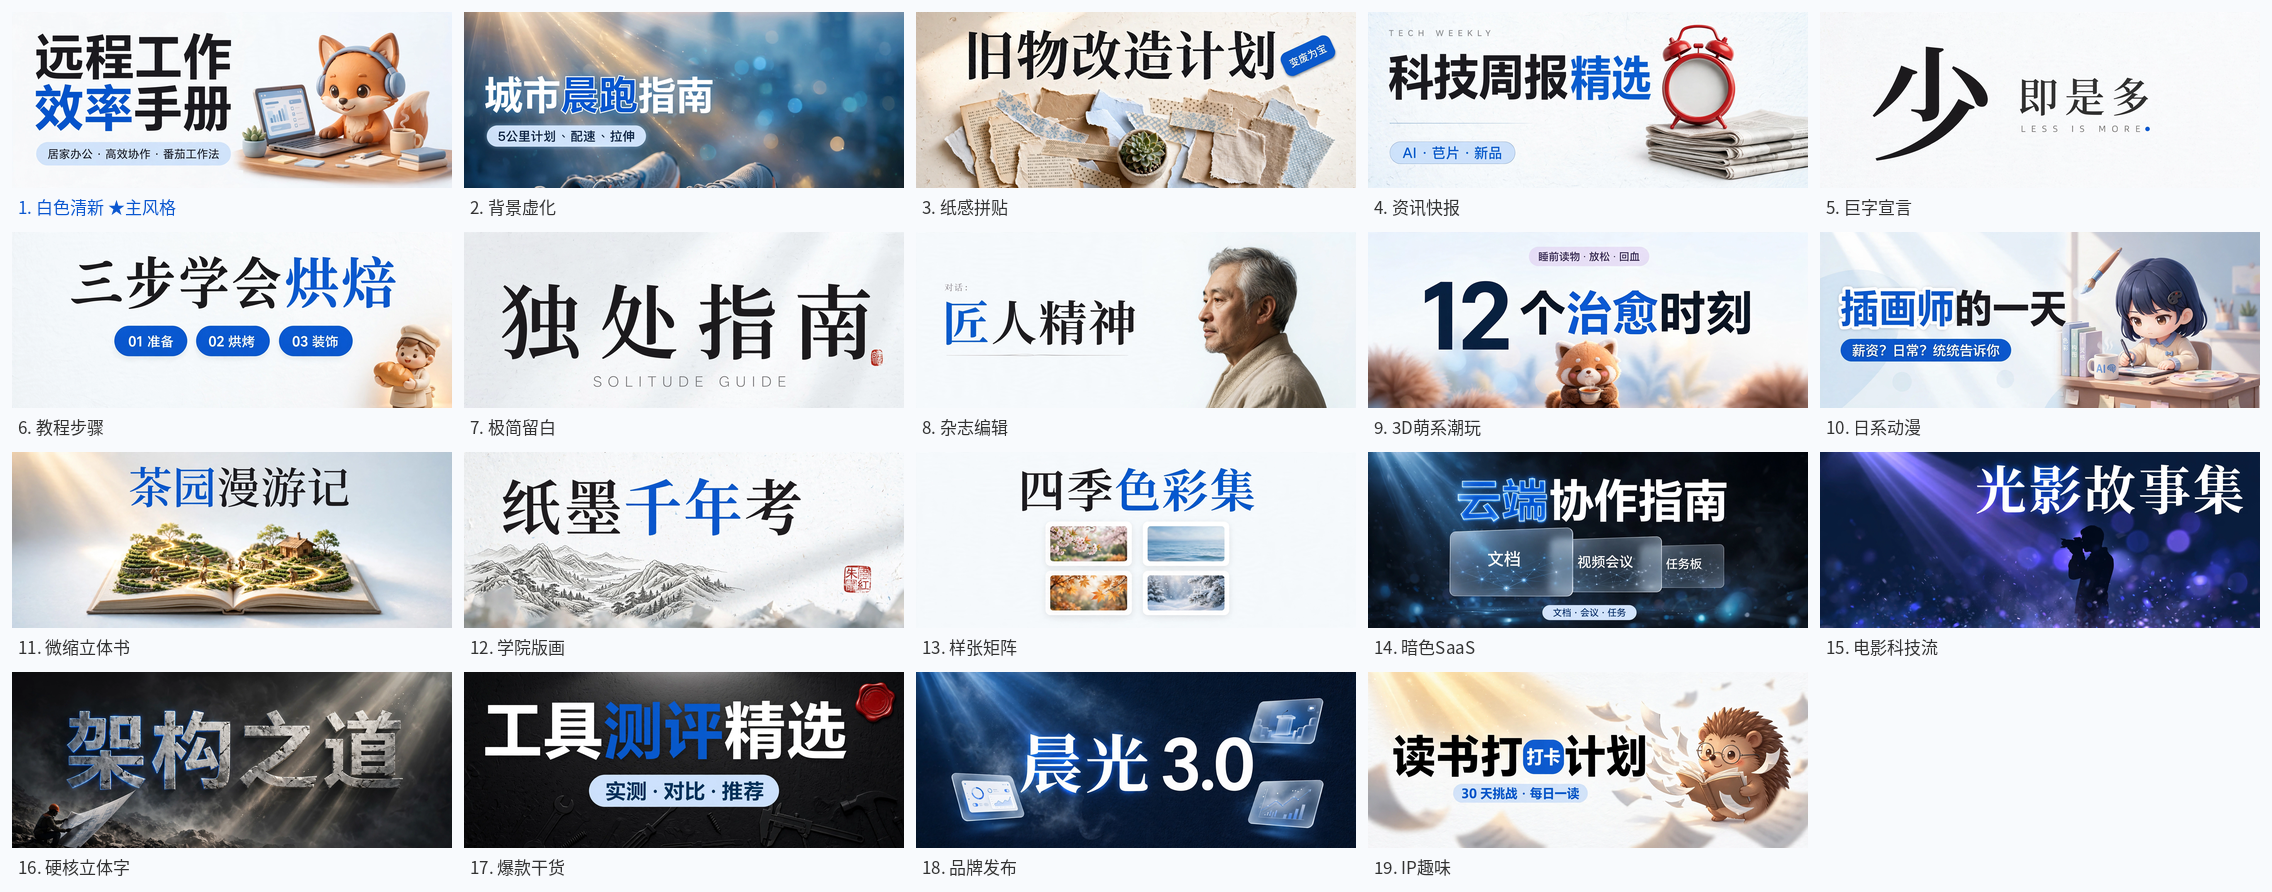
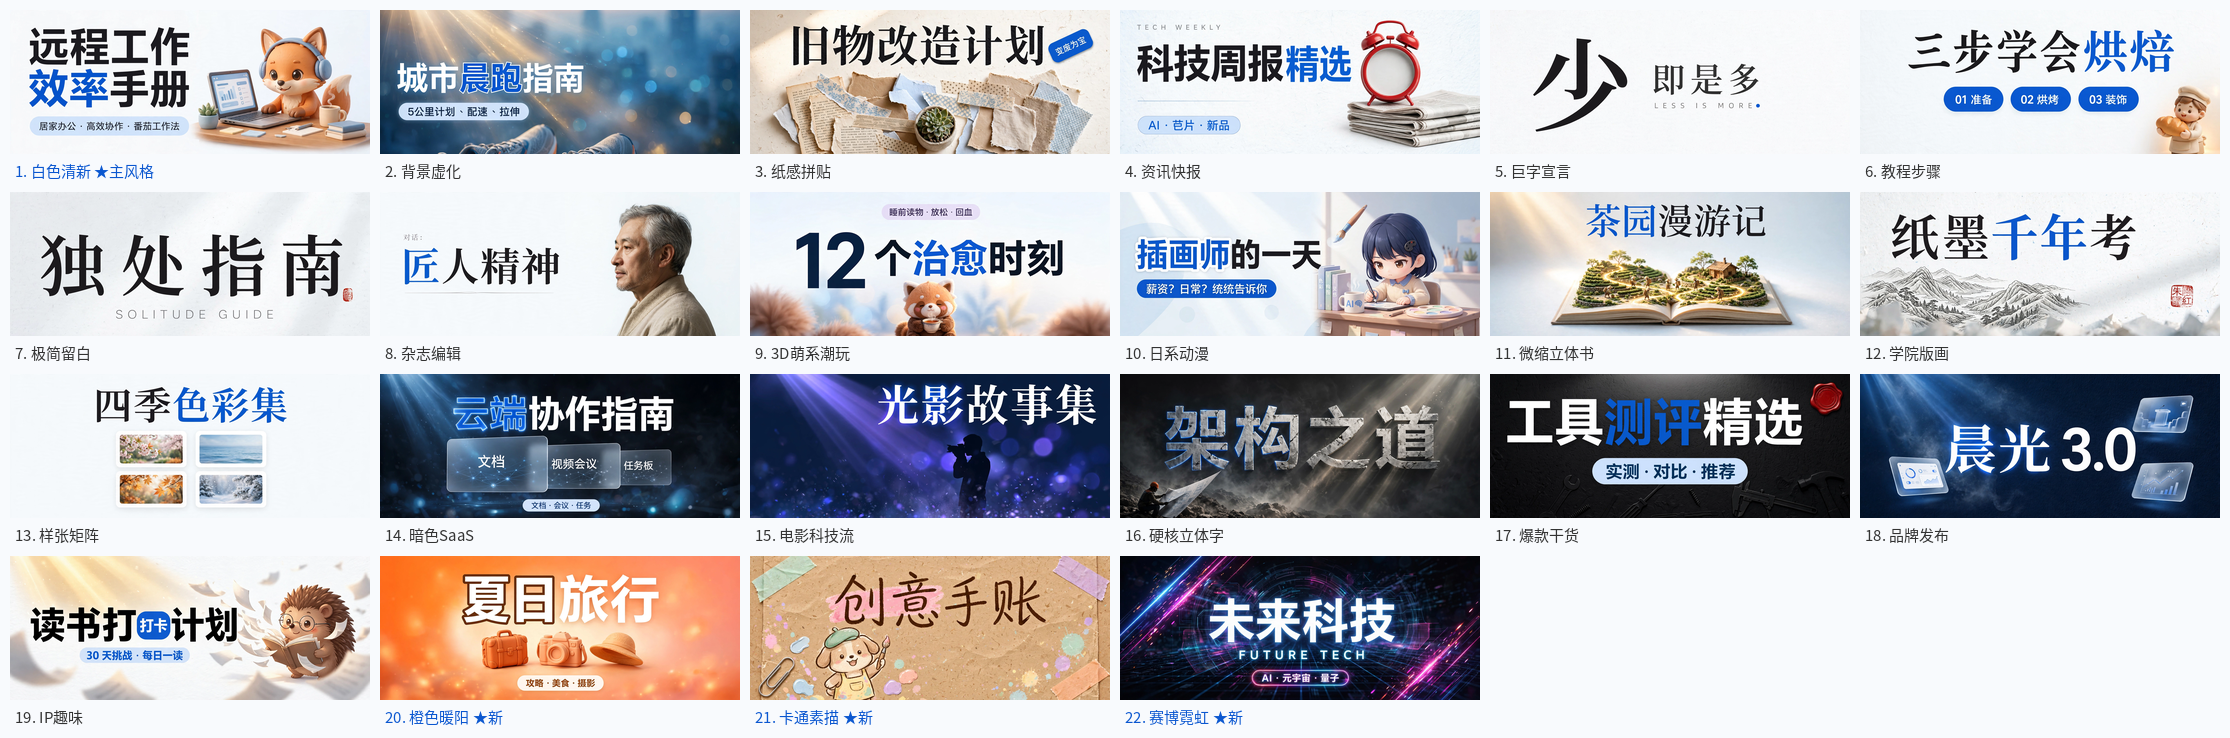
bump: 0.8.0 / cover 0.4.0
- cover: 新增橙色暖阳/卡通素描/赛博霓虹 3 风格（共22种）
- 新增 typography-system.md（字体排印系统）
- 透视/前景虚化/背景虚化技法强化

diff --git a/topmind-cover/README.en.md b/topmind-cover/README.en.md
@@ -4,7 +4,7 @@
 
 A reusable skill for generating cover art for X long-form posts and WeChat articles. Goal: **striking, eye-catching, theme-focused**.
 
-- Version: **v0.3.5** (same tag as `@topmindspace/topmind-writing-skills@0.7.9`)
+- Version: **v0.3.5** (same tag as `@topmindspace/topmind-writing-skills@0.8.0`)
 
 ## Style gallery
 
@@ -12,7 +12,7 @@ A reusable skill for generating cover art for X long-form posts and WeChat artic
   <img src="https://github.com/topmindspace/topmind-writing-skills/raw/main/topmind-cover/assets/examples/overview.png" alt="topmind-cover · 19 cover-style overview" width="960" />
 </p>
 
-19 styles (clean white / background blur / paper collage / news flash / giant-type manifesto / tutorial steps / minimalist / editorial magazine / 3D cute-toy / anime desk / diorama book / academic print / gallery grid / dark SaaS / cinematic flow / hardcore 3D type / viral dry-goods / brand launch / fun IP, light-first ordering): use cases, palette stories, abstract design principles, and Chinese+English prompt recipes in [`references/cover-styles.md`](./references/cover-styles.md); full-size per-style shots in [`assets/examples/`](./assets/examples/). Prefer writing your own prompts and sending them straight to an image model (bypassing the skill)? See [`references/cover-prompts.md`](./references/cover-prompts.md) — a copy-paste prompt compendium plus cross-platform viral-cover research.
+22 styles (clean white / background blur / paper collage / news flash / giant-type manifesto / tutorial steps / minimalist / editorial magazine / 3D cute-toy / anime desk / diorama book / academic print / gallery grid / dark SaaS / cinematic flow / hardcore 3D type / viral dry-goods / brand launch / fun IP, light-first ordering): use cases, palette stories, abstract design principles, and Chinese+English prompt recipes in [`references/cover-styles.md`](./references/cover-styles.md); full-size per-style shots in [`assets/examples/`](./assets/examples/). Prefer writing your own prompts and sending them straight to an image model (bypassing the skill)? See [`references/cover-prompts.md`](./references/cover-prompts.md) — a copy-paste prompt compendium plus cross-platform viral-cover research.
 
 ## Install
 
@@ -22,7 +22,7 @@ npx @topmindspace/topmind-writing-skills install topmind-cover
 
 ## Usage
 
-0. **Pick a style**: choose 1 of 19 styles from `references/cover-styles.md` by topic (light-first) → check the example image to confirm the visual language.
+0. **Pick a style**: choose 1 of 22 styles from `references/cover-styles.md` by topic (light-first) → check the example image to confirm the visual language.
 1. **Refine the title**: lock the title copy first (usually ≤ 10 chars) using that style's title rules; rewrite until it lands — no drawing yet.
 2. **Composition brief**: one-sentence brief (theme / audience / mood / visual metaphor / palette direction) before composing the prompt.
 3. Input: article title + 3 theme keywords + platform (x / wechat / both, default both).

diff --git a/topmind-cover/README.md b/topmind-cover/README.md
@@ -4,15 +4,15 @@
 
 为 X 长文和公众号文章生成封面图的可复用技能。目标：**震撼、醒目、主题突出**。
 
-- 版本：**v0.3.5**（与 `@topmindspace/topmind-writing-skills@0.7.9` 同 tag）
+- 版本：**v0.3.5**（与 `@topmindspace/topmind-writing-skills@0.8.0` 同 tag）
 
 ## 风格样张
 
 <p align="center">
-  <img src="https://github.com/topmindspace/topmind-writing-skills/raw/main/topmind-cover/assets/examples/overview.png" alt="topmind-cover · 19 封面风格总览" width="960" />
+  <img src="https://github.com/topmindspace/topmind-writing-skills/raw/main/topmind-cover/assets/examples/overview.png" alt="topmind-cover · 22 封面风格总览" width="960" />
 </p>
 
-19 种风格（**白色清新**（主风格，4 种版式：单行居中 / 双行标题 / 左文右图 / 点题词高亮）/ 背景虚化 / 纸感拼贴 / 资讯快报 / 巨字宣言 / 教程步骤 / 极简留白 / 杂志编辑 / 3D萌系潮玩 / 日系动漫 / 微缩立体书 / 学院版画 / 样张矩阵 / 暗色SaaS / 电影科技流 / 硬核立体字 / 爆款干货 / 品牌发布 / IP 趣味，浅色优先排序）：适用场景、配色故事、抽象设计原则、中英 prompt 配方见 [`references/cover-styles.md`](./references/cover-styles.md)；单风格大图在 [`assets/examples/`](./assets/examples/)；白色清新 4 版式总览见 [`assets/examples/white-clean-showcase.png`](./assets/examples/white-clean-showcase.png)。想自己写提示词直接给 AI 生图（不走技能流程），看 [`references/cover-prompts.md`](./references/cover-prompts.md)（可直接拷贝的提示词大全 + 全平台爆款流派调研）。
+22 种风格（**白色清新**（主风格，4 种版式：单行居中 / 双行标题 / 左文右图 / 点题词高亮）/ 背景虚化 / 纸感拼贴 / 资讯快报 / 巨字宣言 / 教程步骤 / 极简留白 / 杂志编辑 / 3D萌系潮玩 / 日系动漫 / 微缩立体书 / 学院版画 / 样张矩阵 / 暗色SaaS / 电影科技流 / 硬核立体字 / 爆款干货 / 品牌发布 / IP 趣味，浅色优先排序）：适用场景、配色故事、抽象设计原则、中英 prompt 配方见 [`references/cover-styles.md`](./references/cover-styles.md)；单风格大图在 [`assets/examples/`](./assets/examples/)；白色清新 4 版式总览见 [`assets/examples/white-clean-showcase.png`](./assets/examples/white-clean-showcase.png)。想自己写提示词直接给 AI 生图（不走技能流程），看 [`references/cover-prompts.md`](./references/cover-prompts.md)（可直接拷贝的提示词大全 + 全平台爆款流派调研）。
 
 ## 安装
 

diff --git a/topmind-cover/references/typography-system.md b/topmind-cover/references/typography-system.md
@@ -1,0 +1,59 @@
+# 字体排印系统（Typography System）
+
+> 标题字体不能单一。变化来自：字形、字号、颜色、高亮、衬条、装饰——
+> 六选二，组合出丰富度。
+
+## 一、字形变化（6 种）
+
+| 字形 | 效果 | 适用 |
+|------|------|------|
+| 超粗黑 | 力量、冲击 | 主标题 |
+| 宋体 | 文化、典雅 | 学术、人文 |
+| 书法体 | 艺术、个性 | 观点、品牌 |
+| 手写体 | 亲切、随性 | 生活、创意 |
+| 等宽字体 | 极客、数据 | 科技、代码 |
+| 描边字 | 跳跃、醒目 | 点题词 |
+
+**规则**：一封面 ≤2 种字形；主标题 1 种 + 点题词可另 1 种。
+
+## 二、字号层级（4 级）
+
+- Display（1.0）：主标题，字高 ≥1/4
+- Headline（0.7）：副标题/双行第二行
+- Title（0.4）：胶囊/标签
+- Label（0.3）：英文点缀/小字
+
+## 三、高亮手法（5 种，三选一）
+
+1. **撞色**：点题词换主色（如 #0B57D0）
+2. **色块衬底**：点题词压色块（白字 on 主色块，全圆角）
+3. **马克笔**：荧光色横条（黄/粉/蓝）划过点题词
+4. **描边**：双层描边（外白 3px + 内色 1px）
+5. **立体**：真 3D 挤压（5-10px，仅 2-4 字）
+
+**禁忌**：全标题高亮 = 没高亮；超过 2 个高亮词即乱。
+
+## 四、背景衬条（4 种）
+
+1. **横向色条**：标题下方的色带（MD3 推荐，优雅）
+2. **胶囊底**：全圆角 pill（现代、亲和）
+3. **不规则形**：撕纸/笔刷形（创意、手作）
+4. **无衬条**：靠字重/颜色区分（极简、高级）
+
+**禁忌**：左侧竖条（太 AI 味）；衬条抢标题风头。
+
+## 五、装饰元素（6 种，≤3 种）
+
+1. 几何线条（细线、虚线、波浪）
+2. 光斑/粒子（体积光、lens flare）
+3. 纹理（纸纹、噪点、布纹）
+4. 印章/标签（旋转 8-15°）
+5. 数字徽章（01/02/03）
+6. 英文点缀（细体 + 字母间距）
+
+## 六、透视与景深（4 种）
+
+1. **倾斜透视**：元素 5-15° 倾斜（条件触发）
+2. **大小透视**：近大远小
+3. **前景虚化**：故意虚化的前景元素（镜头感）
+4. **背景虚化**：虚化背景突出主体（bg-blur 风格核心）

diff --git a/topmind-cover/SKILL.md b/topmind-cover/SKILL.md
@@ -1,7 +1,7 @@
 ---
 name: topmind-cover
-version: 0.3.7
-description: "文章封面配图生成：X 长文与公众号共用。震撼、醒目、主题突出；平台尺寸规范、19 种风格模板、4 种构图骨架、文案排版密码、命名落盘、成图检查全流程覆盖。Use when 文章封面、封面图、头图、题图、cover。Do NOT use for 正文插图、PPT/报告封面。"
+version: 0.4.0
+description: "文章封面配图生成：X 长文与公众号共用。震撼、醒目、主题突出；平台尺寸规范、22 种风格模板、4 种构图骨架、文案排版密码、命名落盘、成图检查全流程覆盖。Use when 文章封面、封面图、头图、题图、cover。Do NOT use for 正文插图、PPT/报告封面。"
 action_category: write
 triggers:
   - 封面
@@ -32,7 +32,7 @@ updated: 2026-09-29
 震撼标题 + MD3 设计基础，优雅美观，不是靠丑陋扭曲来醒目。
 
 **设计哲学**：MD3 配色角色 + 字体层级 + 形状语言为底，
-再叠加 19 种风格的设计手法。详见 [`references/md3-foundation.md`](references/md3-foundation.md)。
+再叠加 22 种风格的设计手法。详见 [`references/md3-foundation.md`](references/md3-foundation.md)。
 
 ```
 标题提炼 → MD3 配色/字体定调 → 构图简报 → 风格模板 → 生成 → 冲击力自检 → 裁剪双尺寸 → 落盘命名

diff --git a/CHANGELOG.md b/CHANGELOG.md
@@ -1,3 +1,11 @@
+## [0.8.0] - 2026-10-02
+
+> 根包 0.7.9 → **0.8.0**（minor：cover 新增 3 种风格）；技能：topmind-cover 0.3.7 → **0.4.0**（minor）。
+>
+> - cover：新增 3 种风格（橙色暖阳 / 卡通素描 / 赛博霓虹），共 22 种；
+>   新增 `references/typography-system.md`（字形/字号/高亮/衬条/装饰/透视）；
+>   3 种新风格样张已生成，overview 更新为 22 风格版。
+
 ## [0.7.9] - 2026-10-02
 
 > 根包 0.7.8 → **0.7.9**（patch）；技能：topmind-cover 0.3.6 → **0.3.7**、

diff --git a/README.en.md b/README.en.md
@@ -78,7 +78,7 @@ Installer [`@topmindspace/topmind-writing-skills`](https://www.npmjs.com/package
 npx @topmindspace/topmind-writing-skills list
 npx @topmindspace/topmind-writing-skills install topmind-briefs
 npx @topmindspace/topmind-writing-skills install topmind-briefs --to ./.claude/skills
-npx @topmindspace/topmind-writing-skills@0.7.9 install topmind-briefs   # pin
+npx @topmindspace/topmind-writing-skills@0.8.0 install topmind-briefs   # pin
 npx @topmindspace/topmind-writing-skills uninstall topmind-briefs --to ./.claude/skills
 ```
 

diff --git a/README.md b/README.md
@@ -78,7 +78,7 @@ npx @topmindspace/topmind-writing-skills install topmind-cover
 npx @topmindspace/topmind-writing-skills list
 npx @topmindspace/topmind-writing-skills install topmind-briefs
 npx @topmindspace/topmind-writing-skills install topmind-briefs --to ./.claude/skills
-npx @topmindspace/topmind-writing-skills@0.7.9 install topmind-briefs   # 钉版本
+npx @topmindspace/topmind-writing-skills@0.8.0 install topmind-briefs   # 钉版本
 npx @topmindspace/topmind-writing-skills uninstall topmind-briefs --to ./.claude/skills
 ```
 

diff --git a/topmind-briefs/README.md b/topmind-briefs/README.md
@@ -5,7 +5,7 @@
 一件事，一张图，讲完就停。干货向短文：数据榜单、论文一句话解读、新品速递——
 X 一帖或短 thread，公众号约 300–800 字，双版一键复制 HTML。
 
-- 版本：**v0.2.1**（与 `@topmindspace/topmind-writing-skills@0.7.9` 同 tag）
+- 版本：**v0.2.1**（与 `@topmindspace/topmind-writing-skills@0.8.0` 同 tag）
 
 ## 安装
 

diff --git a/topmind-briefs/README.en.md b/topmind-briefs/README.en.md
@@ -6,7 +6,7 @@ One topic, one chart, then stop. Data-driven short posts: rankings, paper TL;DRs
 product launches — one X post or short thread, ~300–800 words on WeChat,
 one-click-copy HTML for both.
 
-- Version: **v0.2.1** (same tag as `@topmindspace/topmind-writing-skills@0.7.9`)
+- Version: **v0.2.1** (same tag as `@topmindspace/topmind-writing-skills@0.8.0`)
 
 ## Install
 

diff --git a/topmind-wechat-post/README.en.md b/topmind-wechat-post/README.en.md
@@ -4,7 +4,7 @@
 
 Full lifecycle for WeChat articles: delivery package, review & rewrite, three quality gates, status sync, WeChat inline typography, and publish checklist.
 
-- Version: **v0.2.1** (same tag as `@topmindspace/topmind-writing-skills@0.7.9`)
+- Version: **v0.2.1** (same tag as `@topmindspace/topmind-writing-skills@0.8.0`)
 
 ## Install
 

diff --git a/topmind-wechat-post/README.md b/topmind-wechat-post/README.md
@@ -4,7 +4,7 @@
 
 公众号文章全生命周期：交付包、审校改写、质量三关、状态同步、微信内联排版与发布清单。
 
-- 版本：**v0.2.1**（与 `@topmindspace/topmind-writing-skills@0.7.9` 同 tag）
+- 版本：**v0.2.1**（与 `@topmindspace/topmind-writing-skills@0.8.0` 同 tag）
 
 ## 安装
 
